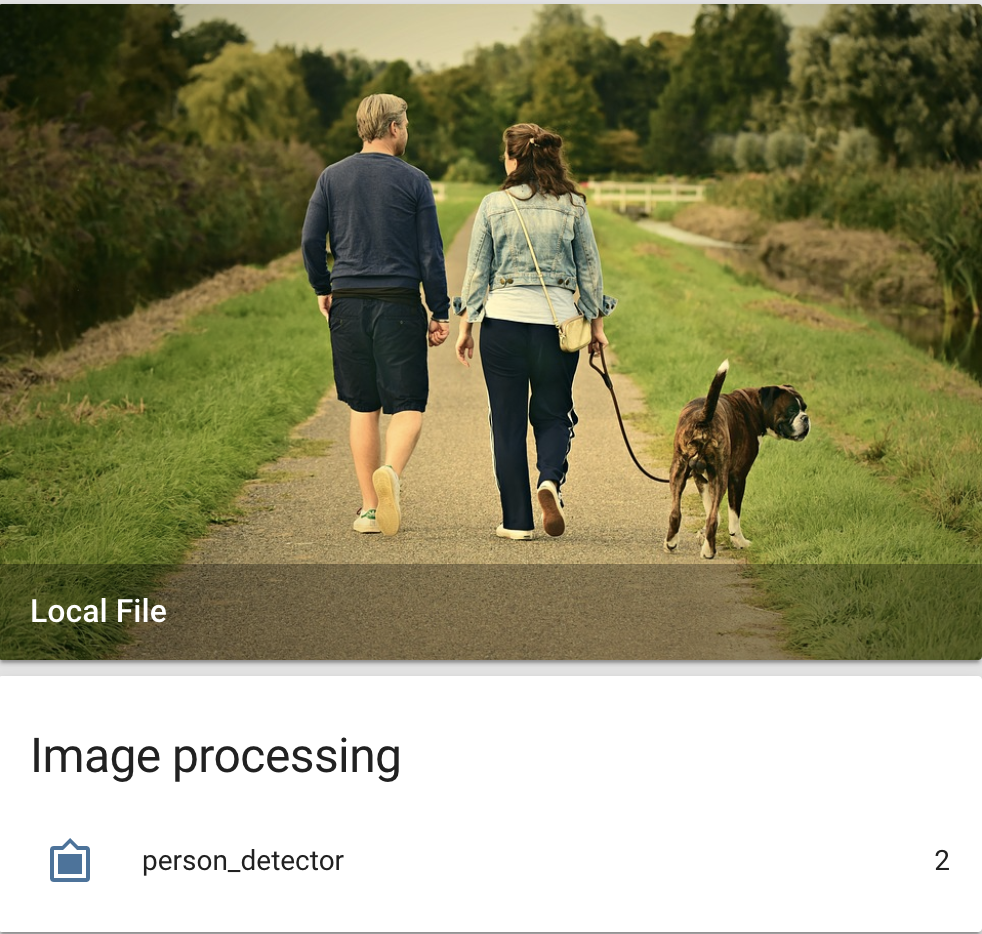
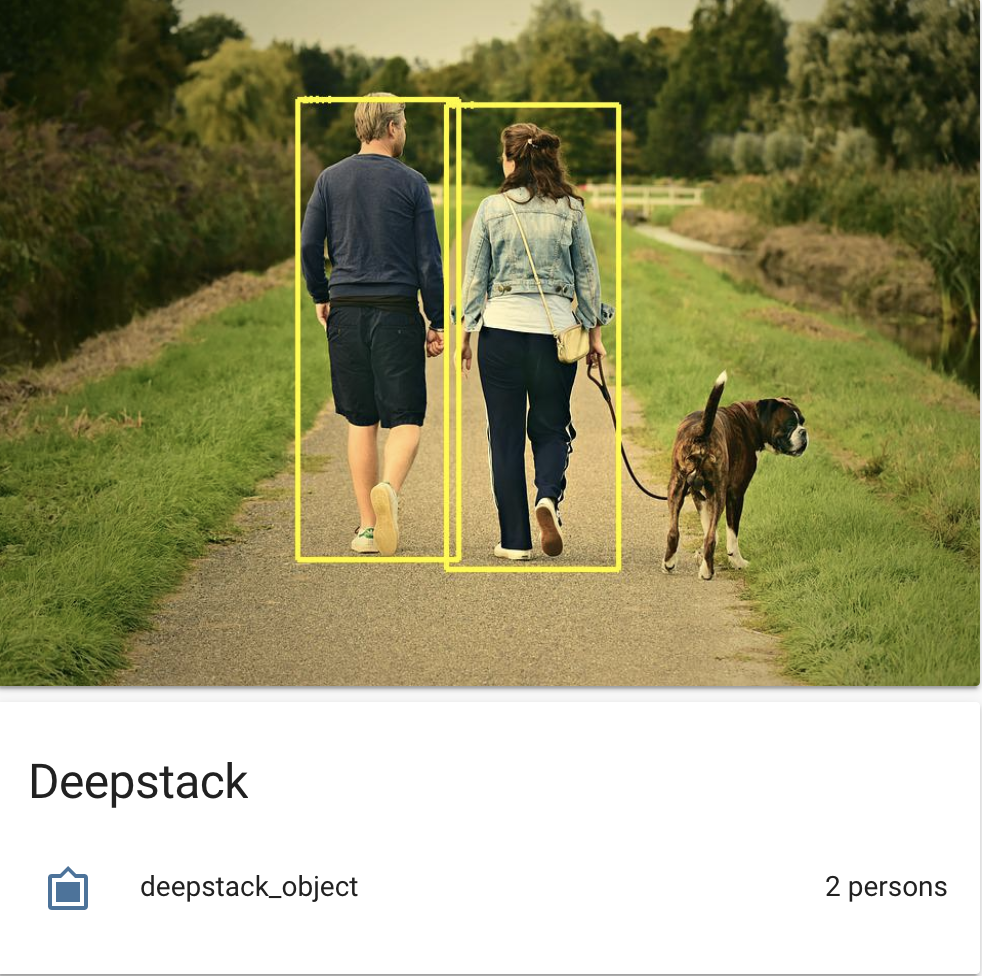
Remove json predictions
Remove json predictions and fix a couple of issues like unit of measurement and datetime formatting

diff --git a/custom_components/deepstack_object/image_processing.py b/custom_components/deepstack_object/image_processing.py
@@ -68,13 +68,6 @@ PLATFORM_SCHEMA = PLATFORM_SCHEMA.extend(
 )
 
 
-def get_now_str():
-    """
-    Returns now as string.
-    """
-    return dt_util.now().strftime("%Y-%m-%d-%H-%M-%S")
-
-
 def get_box(prediction: dict, img_width: int, img_height: int):
     """
     Return the relative bounxing box coordinates
@@ -92,40 +85,6 @@ def get_box(prediction: dict, img_width: int, img_height: int):
     rounding_decimals = 3
     box = [round(coord, rounding_decimals) for coord in box]
     return box
-
-
-def get_box_centroid(box: Tuple) -> Tuple:
-    """
-    Locate the box centroid in (x,y) coordinates where
-    (0,0) is the top left hand corner of the image and 
-    (1,1) is the bottom right corner of the image.
-    """
-    rounding_decimals = 3
-
-    y_min, x_min, y_max, x_max = box
-    centroid = ((x_max + x_min) / 2, (y_max + y_min) / 2)
-    centroid = [round(coord, rounding_decimals) for coord in centroid]
-    return centroid
-
-
-def format_predictions(predictions: dict, img_width: int, img_height: int) -> str:
-    """
-    Return deepstack predictions in standardised json format where confidences
-    are a percentage (%) and bounding boxes are in relative cordinates
-    """
-    predictions_formatted = []
-    for prediction in predictions:
-        formatted_prediction = {}
-        formatted_prediction["confidence"] = ds.format_confidence(
-            prediction["confidence"]
-        )
-        formatted_prediction["label"] = prediction["label"].lower()
-
-        box = get_box(prediction, img_width, img_height)
-        formatted_prediction["box"] = box
-        formatted_prediction["centroid"] = get_box_centroid(box)
-        predictions_formatted.append(formatted_prediction)
-    return json.dumps(predictions_formatted)
 
 
 def draw_box(
@@ -231,7 +190,9 @@ class ObjectClassifyEntity(ImageProcessingEntity):
 
     def process_image(self, image):
         """Process an image."""
-        self._image_width, self._image_height = Image.open(io.BytesIO(bytearray(image))).size
+        self._image_width, self._image_height = Image.open(
+            io.BytesIO(bytearray(image))
+        ).size
         self._state = None
         self._targets_confidences = []
         self._predictions = {}
@@ -255,7 +216,7 @@ class ObjectClassifyEntity(ImageProcessingEntity):
                 )
             )
             if self._state > 0:
-                self._last_detection = get_now_str()
+                self._last_detection = dt_util.now()
             self._summary = ds.get_objects_summary(self._predictions)
             self.fire_prediction_events(self._predictions, self._confidence)
             if hasattr(self, "_save_file_folder") and self._state > 0:
@@ -286,7 +247,7 @@ class ObjectClassifyEntity(ImageProcessingEntity):
 
         latest_save_path = directory + "deepstack_latest_{}.jpg".format(target)
         timestamp_save_path = directory + "deepstack_{}_{}.jpg".format(
-            target, get_now_str()
+            target, self._last_detection.strftime("%Y-%m-%d-%H-%M-%S")
         )
         try:
             img.save(latest_save_path)
@@ -334,16 +295,22 @@ class ObjectClassifyEntity(ImageProcessingEntity):
         return self._name
 
     @property
+    def unit_of_measurement(self):
+        """Return the unit of measurement."""
+        target = self._target
+        if self._state != None and self._state > 1:
+            target += "s"
+        return target
+
+    @property
     def device_state_attributes(self):
         """Return device specific state attributes."""
         attr = {}
         attr["target"] = self._target
         attr["target_confidences"] = self._targets_confidences
         attr["summary"] = self._summary
-        attr["predictions"] = format_predictions(
-            self._predictions, self._image_width, self._image_height
-        )
-        attr["last_detection"] = self._last_detection
+        if self._last_detection:
+            attr["last_detection"] = self._last_detection.strftime("%Y-%m-%d %H:%M:%S")
         if hasattr(self, "_save_file_folder"):
             attr["save_file_folder"] = self._save_file_folder
         return attr
